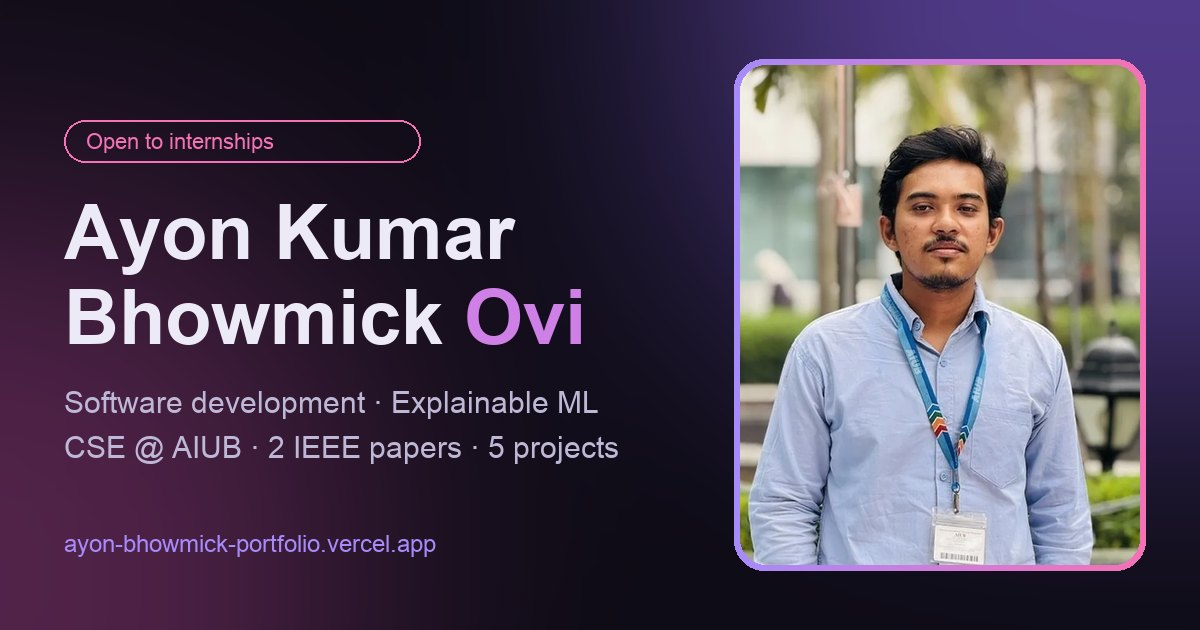
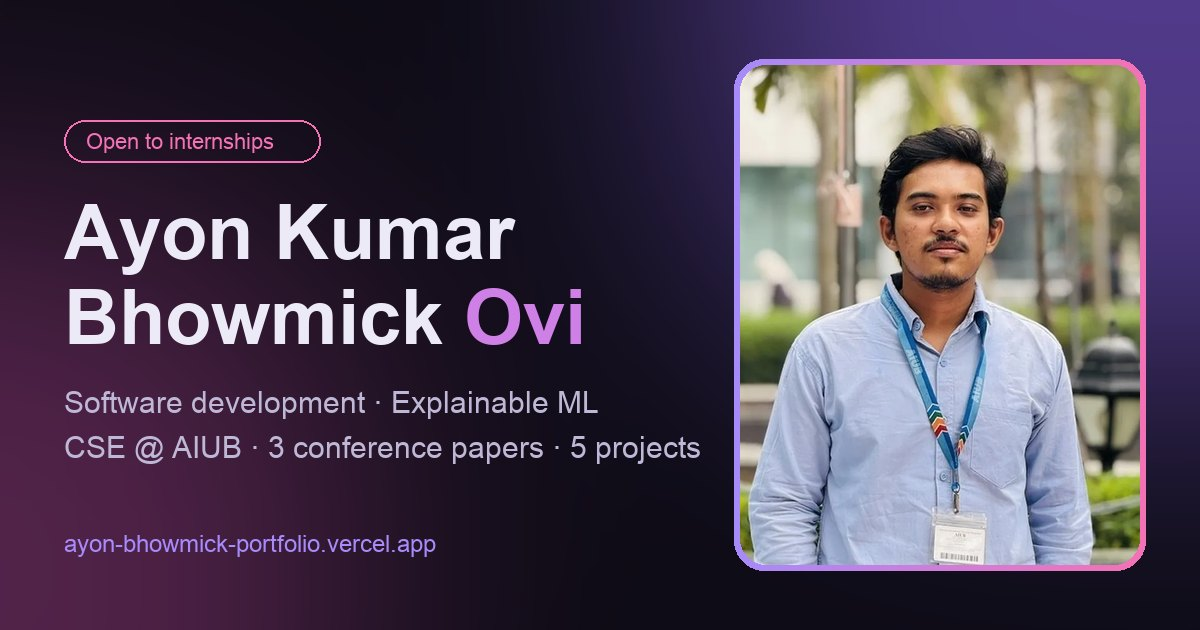
Update publications: dengue paper accepted at ICREST 2027, remove rejected papers
- Move the dengue detection paper to accepted publications
- Remove the diabetes and chilli leaf papers (not accepted)
- Hide the 'Under peer review' list when it is empty
- Update paper counts, meta description and link-preview image

Changed region(s): [[0.2158, 0.6937, 0.5858, 0.754], [0.2467, 0.2413, 0.3392, 0.2714], [0.2467, 0.181, 0.3392, 0.2111]]

diff --git a/src/data/portfolio.js b/src/data/portfolio.js
@@ -28,7 +28,7 @@ export const profile = {
   // the small code card on the photo
   codeCard: [
     ['focus', '"AI/ML · Software"'],
-    ['papers', '2'],
+    ['papers', '3'],
     ['openTo', '"Internships"'],
   ],
 };
@@ -36,8 +36,8 @@ export const profile = {
 // The four numbers shown under the hero.
 export const facts = [
   { value: '3.71', label: 'CGPA at AIUB', note: 'out of 4.00' },
-  { value: '2', label: 'IEEE conference papers', note: '1 published · 1 accepted' },
-  { value: '3', label: 'Papers under review', note: 'ICCIT 2026 · ICREST 2027' },
+  { value: '3', label: 'Conference papers', note: '1 published · 2 accepted' },
+  { value: 'IEEE', label: 'Student Member', note: 'AIUB Student Branch · 2026 – Present' },
   { value: '5', label: 'Software projects', note: 'desktop · web · game · database' },
 ];
 
@@ -57,7 +57,7 @@ export const about = {
     'Long term, I want to become a skilled and dependable engineer who contributes to useful, high-quality products.',
   ],
   now: [
-    'Writing papers on explainable ML: diabetes, dengue, plant disease and software defects',
+    'Working on explainable ML research, including software defect prediction',
     'Looking for an internship or entry-level role in software, ML, data or QA',
     'Student Member, IEEE AIUB Student Branch',
   ],
@@ -93,26 +93,20 @@ export const publications = [
     venue: '2026 IEEE 8th International Conference on Sustainable Technologies for Industry 5.0 (STI)',
     place: 'Dhaka, Bangladesh, 2026 (to appear)',
   },
-];
-
-export const underReview = [
   {
-    title: 'Leakage-Aware Diabetes Prediction Using Mutual Information and Explainable Machine Learning',
-    authors: ['A. K. B. Ovi', 'B. K. Bhawmick'],
-    venue: 'Submitted to ICCIT 2026 (29th International Conference on Computer and Information Technology)',
-  },
-  {
-    title: 'Chilli Leaf Disease Classification Using a ConvNeXt-Mamba Hybrid with Explainable AI',
-    authors: ['A. K. B. Ovi', 'T. B. Jenny', 'T. Ahmed', 'R. Mahmud', 'S. A. Tasnim'],
-    venue: 'Submitted to ICCIT 2026 (29th International Conference on Computer and Information Technology)',
-  },
-  {
+    status: 'accepted',
+    badge: 'Accepted · ICREST 2027',
     title:
       'Explainable Machine Learning for Early Dengue Detection Using Routine Blood Parameters: A CTGAN-Balanced Stacking Framework',
     authors: ['A. K. B. Ovi', 'S. K. B. Shanto', 'B. K. Bhawmick', 'D. J. Gomes'],
-    venue: 'Submitted to ICREST 2027 (5th International Conference on Robotics, Electrical and Signal Processing Techniques)',
+    me: 'A. K. B. Ovi',
+    venue: '5th International Conference on Robotics, Electrical and Signal Processing Techniques (ICREST)',
+    place: 'Dhaka, Bangladesh, 2027 (to appear)',
   },
 ];
+
+// Papers submitted and waiting for a decision. Leave the list empty to hide the section.
+export const underReview = [];
 
 export const inPreparation = [
   {

diff --git a/index.html b/index.html
@@ -4,7 +4,7 @@
   <meta charset="UTF-8" />
   <meta name="viewport" content="width=device-width, initial-scale=1.0" />
   <title>Ayon Kumar Bhowmick Ovi | Software & ML Research Portfolio</title>
-  <meta name="description" content="Ayon Kumar Bhowmick Ovi: CSE student at AIUB (CGPA 3.71) building software and doing explainable machine-learning research, with 2 IEEE conference papers and 5 projects." />
+  <meta name="description" content="Ayon Kumar Bhowmick Ovi: CSE student at AIUB (CGPA 3.71) building software and doing explainable machine-learning research, with 3 conference papers (1 published, 2 accepted) and 5 projects." />
   <meta name="author" content="Ayon Kumar Bhowmick Ovi" />
   <link rel="canonical" href="https://ayon-bhowmick-portfolio.vercel.app/" />
   <meta name="theme-color" content="#f8f6fc" media="(prefers-color-scheme: light)" />
@@ -13,7 +13,7 @@
   <meta property="og:type" content="profile" />
   <meta property="og:url" content="https://ayon-bhowmick-portfolio.vercel.app/" />
   <meta property="og:title" content="Ayon Kumar Bhowmick Ovi | Software & ML Research" />
-  <meta property="og:description" content="CSE @ AIUB · Software development and explainable machine learning · 2 IEEE conference papers." />
+  <meta property="og:description" content="CSE @ AIUB · Software development and explainable machine learning · 3 conference papers." />
   <meta property="og:image" content="https://ayon-bhowmick-portfolio.vercel.app/og.jpg" />
   <meta property="og:image:width" content="1200" />
   <meta property="og:image:height" content="630" />

diff --git a/src/components/Research.jsx b/src/components/Research.jsx
@@ -88,9 +88,9 @@ export default function Research() {
       <ol className="mt-8 space-y-4">
         {publications.map((p, i) => <Paper key={p.title} paper={p} n={i + 1} />)}
       </ol>
-      <div className="mt-4 grid items-start gap-4 lg:grid-cols-[1.6fr_1fr]">
-        <WorkList title="Under peer review" status="review" items={underReview} />
-        <WorkList title="In preparation" status="prep" items={inPreparation} />
+      <div className={`mt-4 grid items-start gap-4 ${underReview.length && inPreparation.length ? 'lg:grid-cols-[1.6fr_1fr]' : ''}`}>
+        {underReview.length > 0 && <WorkList title="Under peer review" status="review" items={underReview} />}
+        {inPreparation.length > 0 && <WorkList title="In preparation" status="prep" items={inPreparation} />}
       </div>
     </Section>
   );
